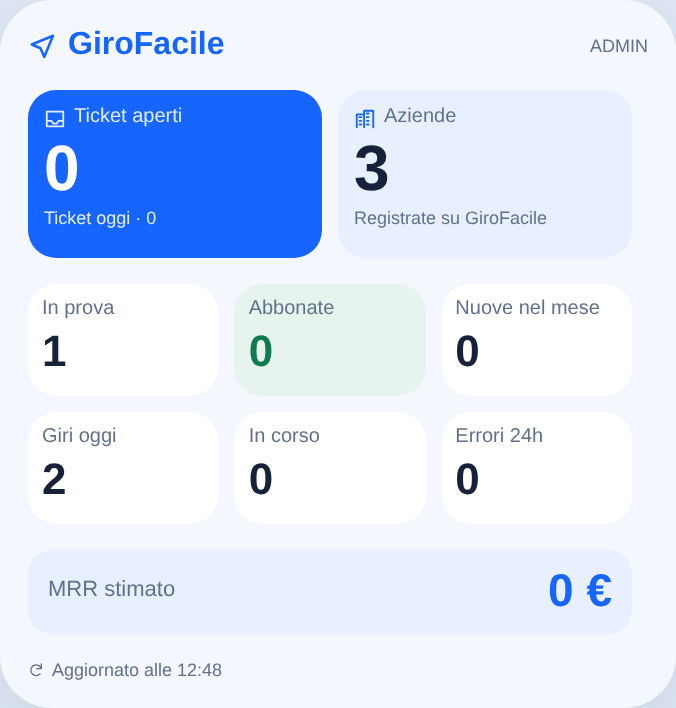
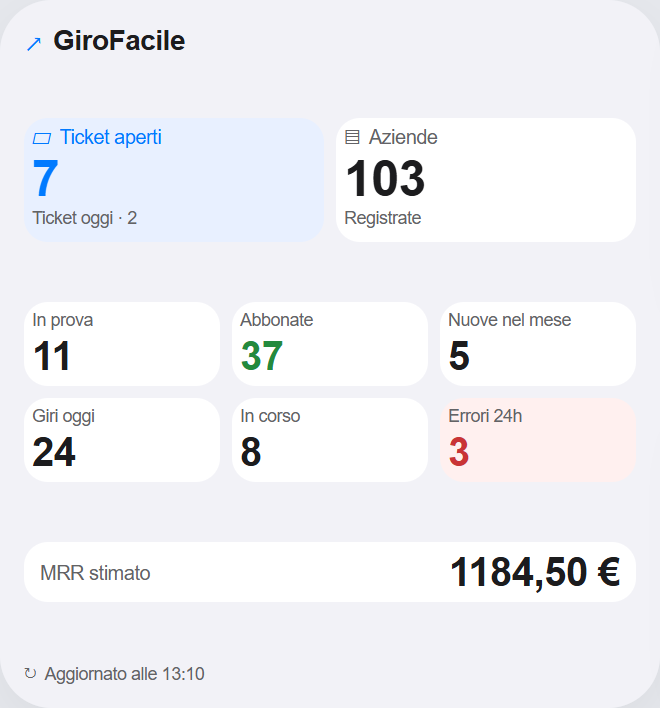
Widget iPhone: tema adattivo e layout in stile iOS

diff --git a/static/admin/widget-scriptable.js b/static/admin/widget-scriptable.js
@@ -5,12 +5,17 @@
 const GF_URL = "__GF_URL__";
 const GF_KEY = "__GF_KEY__";
 
+// Colori adattivi di iOS, risolti dal sistema anche quando cambia il tema.
+const adaptive = (light, dark) => Color.dynamic(new Color(light), new Color(dark));
 const C = {
-  bg: new Color("f4f7fd"), white: Color.white(), blue: new Color("1665ff"),
-  ink: new Color("16213a"), muted: new Color("61718c"), soft: new Color("e8efff"),
-  green: new Color("127a52"), greenSoft: new Color("e6f4ed"),
-  danger: new Color("b33448"), dangerSoft: new Color("fdecef"), warning: new Color("9a6409"),
-  onBlue: new Color("e3edff"),
+  bg: adaptive("f2f2f7", "1c1c1e"),
+  surface: adaptive("ffffff", "2c2c2e"),
+  blue: adaptive("007aff", "64a8ff"),
+  ink: adaptive("1c1c1e", "f5f5f7"), muted: adaptive("636366", "aeaeb2"),
+  soft: adaptive("e8f0ff", "23334d"),
+  green: adaptive("248a3d", "32d74b"),
+  danger: adaptive("c93436", "ff6961"), dangerSoft: adaptive("fff0ef", "462629"),
+  warning: adaptive("946200", "ffd60a"),
 };
 const family = config.widgetFamily || "large";
 const small = family === "small";
@@ -18,12 +23,12 @@ const medium = family === "medium";
 const screen = Device.screenSize();
 const shortSide = Math.min(screen.width, screen.height);
 const compact = shortSide <= 375;
-const padding = small || medium ? 10 : compact ? 12 : 14;
+const padding = compact || medium ? 10 : 12;
 // Margine prudente rispetto alla larghezza dei widget iPhone, anche con schermo ruotato.
 const wideWidth = Math.min(380, shortSide - (shortSide > 400 ? 72 : shortSide >= 375 ? 60 : 48));
 const smallWidth = shortSide < 350 ? 136 : compact ? 146 : 156;
 const contentWidth = (small ? smallWidth : wideWidth) - padding * 2;
-const gap = small || medium ? 6 : 8;
+const gap = 6;
 
 async function load() {
   const req = new Request(GF_URL + "/api/widget/stats");
@@ -73,7 +78,7 @@ function card(parent, width, height, background, inset = 8) {
   box.layoutVertically();
   box.size = new Size(width, height);
   box.backgroundColor = background;
-  box.cornerRadius = small || medium ? 11 : 14;
+  box.cornerRadius = 12;
   box.setPadding(inset, inset, inset, inset);
   return box;
 }
@@ -83,31 +88,24 @@ function line(parent) {
   return stack;
 }
 function space(widget, flexible = false) {
-  widget.addSpacer(medium ? 6 : compact ? 7 : 9);
+  widget.addSpacer(compact ? 4 : 5);
   if (flexible) widget.addSpacer();
 }
 function header(widget) {
   const row = line(widget);
-  if (!small && !medium) {
-    icon(row, "location.fill", 15, C.blue);
-    row.addSpacer(5);
-  }
-  text(row, "GiroFacile", small || medium ? 13 : 16, C.blue, "bold");
+  icon(row, "location.fill", small || medium ? 11 : 13, C.blue);
+  row.addSpacer(5);
+  text(row, "GiroFacile", small || medium ? 12 : 14, C.ink, "bold");
   row.addSpacer();
-  text(row, "ADMIN", small ? 8 : 9, C.muted);
 }
 function hero(parent, value, label, symbol, width, subtitle, primary) {
-  const box = card(parent, width, compact ? 76 : 84, primary ? C.blue : C.soft, compact ? 7 : 8);
+  const box = card(parent, width, compact ? 56 : 62, primary ? C.soft : C.surface, 4);
   const top = line(box);
-  icon(top, symbol, 11, primary ? C.onBlue : C.blue);
+  icon(top, symbol, 10, primary ? C.blue : C.muted);
   top.addSpacer(4);
-  text(top, label, 10, primary ? C.onBlue : C.muted);
-  box.addSpacer(1);
-  text(box, count(value), compact ? 28 : 32, primary ? C.white : C.ink, "bold");
-  if (subtitle) {
-    box.addSpacer(1);
-    text(box, subtitle, 9, primary ? C.onBlue : C.muted);
-  }
+  text(top, label, 10, primary ? C.blue : C.muted);
+  text(box, count(value), compact ? 22 : 25, primary ? C.blue : C.ink, "bold");
+  if (subtitle) text(box, subtitle, compact ? 8 : 9, C.muted);
 }
 function metricRow(widget, items, dense = false) {
   const row = widget.addStack();
@@ -115,13 +113,13 @@ function metricRow(widget, items, dense = false) {
   items.forEach((item, index) => {
     if (index) row.addSpacer(gap);
     const primary = !!item.primary;
-    const box = card(row, width, dense ? 44 : compact ? 50 : 56,
-      primary ? C.blue : item.alert ? C.dangerSoft : item.green ? C.greenSoft : C.white,
-      dense ? 4 : compact ? 6 : 7);
-    text(box, item.label, dense ? 9 : 10, primary ? C.onBlue : C.muted);
-    box.addSpacer(dense ? 1 : 2);
-    text(box, count(item.value), dense ? 19 : compact ? 20 : 22,
-      primary ? C.white : item.alert ? C.danger : item.green ? C.green : C.ink, "bold");
+    const box = card(row, width, dense ? 43 : compact ? 36 : 42,
+      primary ? C.soft : item.alert ? C.dangerSoft : C.surface,
+      dense || compact ? 3 : 4);
+    text(box, item.label, dense || compact ? 8 : 9, C.muted);
+    box.addSpacer(1);
+    text(box, count(item.value), dense || compact ? 17 : 20,
+      primary ? C.blue : item.alert ? C.danger : item.green ? C.green : C.ink, "bold");
   });
 }
 function footer(widget, timestamp) {
@@ -145,9 +143,9 @@ function footer(widget, timestamp) {
 }
 function renderSmall(widget, d) {
   widget.addSpacer(7);
-  const box = card(widget, contentWidth, compact ? 56 : 60, C.blue, 7);
-  text(box, "Ticket aperti", 10, C.onBlue);
-  text(box, count(d.ticket_aperti), 24, C.white, "bold");
+  const box = card(widget, contentWidth, compact ? 48 : 52, C.soft, 6);
+  text(box, "Ticket aperti", 10, C.muted);
+  text(box, count(d.ticket_aperti), 26, C.blue, "bold");
   widget.addSpacer();
   const companies = line(widget);
   text(companies, "Aziende", 11, C.muted);
@@ -178,7 +176,7 @@ function renderLarge(widget, d) {
   hero(heroes, d.ticket_aperti, "Ticket aperti", "tray", width,
     "Ticket oggi · " + count(d.ticket_nuovi_oggi), true);
   heroes.addSpacer(gap);
-  hero(heroes, d.aziende_registrate, "Aziende", "building.2", width, "Registrate su GiroFacile", false);
+  hero(heroes, d.aziende_registrate, "Aziende", "building.2", width, "Registrate", false);
   space(widget, true);
   metricRow(widget, [
     { value: d.aziende_in_prova, label: "In prova" },
@@ -193,14 +191,14 @@ function renderLarge(widget, d) {
   ]);
   space(widget, true);
   const revenue = widget.addStack();
-  revenue.size = new Size(contentWidth, compact ? 38 : 42);
-  revenue.backgroundColor = C.soft;
+  revenue.size = new Size(contentWidth, compact ? 26 : 30);
+  revenue.backgroundColor = C.surface;
   revenue.cornerRadius = 12;
-  revenue.setPadding(6, 10, 6, 10);
+  revenue.setPadding(4, 8, 4, 8);
   revenue.centerAlignContent();
-  text(revenue, "MRR stimato", 11, C.muted);
+  text(revenue, "MRR stimato", 10, C.muted);
   revenue.addSpacer();
-  text(revenue, euros(d.mrr_stimato), compact ? 21 : 23, C.blue, "bold");
+  text(revenue, euros(d.mrr_stimato), compact ? 18 : 20, C.ink, "bold");
   space(widget, true);
 }
 function renderError(widget, error) {
@@ -235,5 +233,7 @@ try {
 // La frequenza effettiva è decisa da iOS, anche quando il widget è aggiornato.
 widget.refreshAfterDate = new Date(Date.now() + 15 * 60 * 1000);
 if (config.runsInWidget) Script.setWidget(widget);
+else if (small) await widget.presentSmall();
+else if (medium) await widget.presentMedium();
 else await widget.presentLarge();
 Script.complete();

diff --git a/docs/widget-iphone.md b/docs/widget-iphone.md
@@ -10,8 +10,9 @@ La resa dei font e delle icone va verificata in Scriptable su iPhone.
 
 ## Aspetto e formati
 
-Il tema chiaro usa il blu GiroFacile, riquadri arrotondati e numeri con contrasto
-e dimensioni maggiori per gli indicatori principali.
+Il widget segue automaticamente il tema chiaro o scuro di iOS. Usa caratteri di sistema,
+numeri arrotondati, superfici neutre e accenti blu. I riquadri compatti distribuiscono gli
+indicatori nei tre formati. L’anteprima in Scriptable rispetta il formato selezionato.
 
 - **Grande:** ticket aperti e nuovi di oggi, aziende registrate, in prova,
   abbonate e nuove nel mese, giri di oggi e in corso, errori delle ultime 24 ore

diff --git a/CHANGELOG.md b/CHANGELOG.md
@@ -5,6 +5,8 @@ Da qui in avanti le modifiche si annotano in questo file, la più recente in alt
 
 ## Verso la V1
 
+- Widget iPhone: tema chiaro/scuro automatico, superfici in stile iOS, spaziature compatte e anteprima del formato selezionato.
+
 - Cambio piano con pagina di pagamento chiusa: invece dell'errore «Completa o annulla prima il pagamento» GiroFacile
   propone di completare il pagamento o di annullare il cambio in sospeso; anche «Annulla checkout aperto» lo annulla.
 - Funzioni non incluse nel piano (Agenti, Report, Chat autisti, integrazioni, AI): al posto della pagina bloccata si apre
